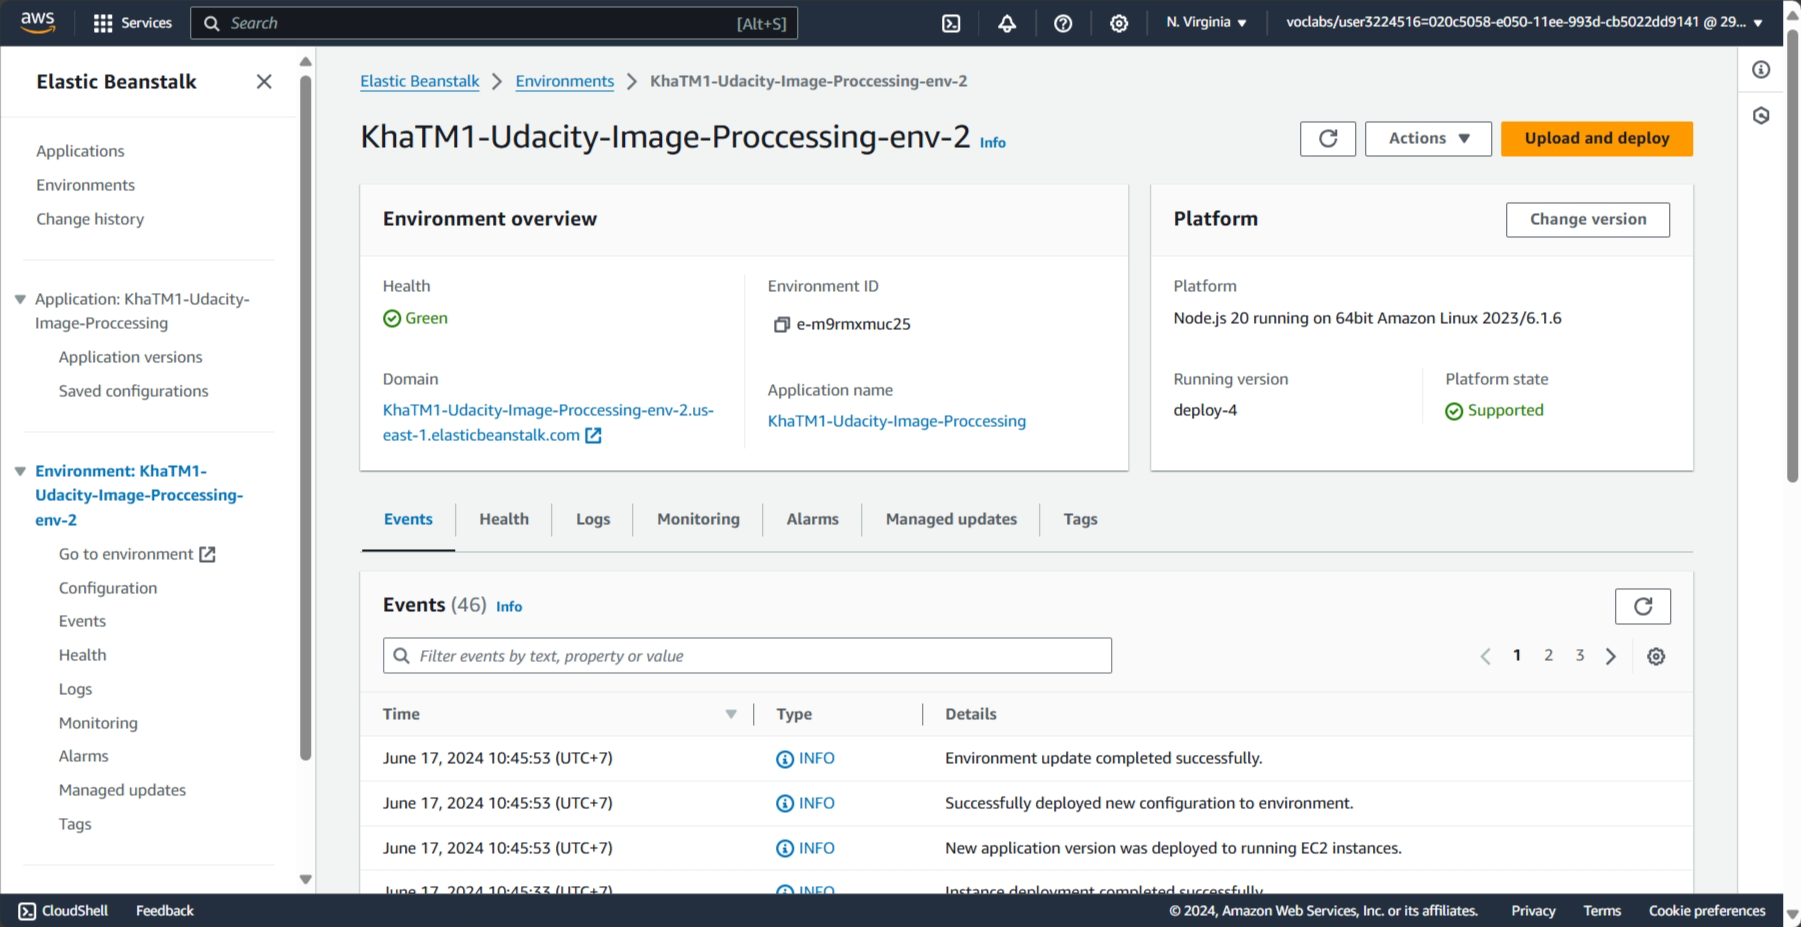
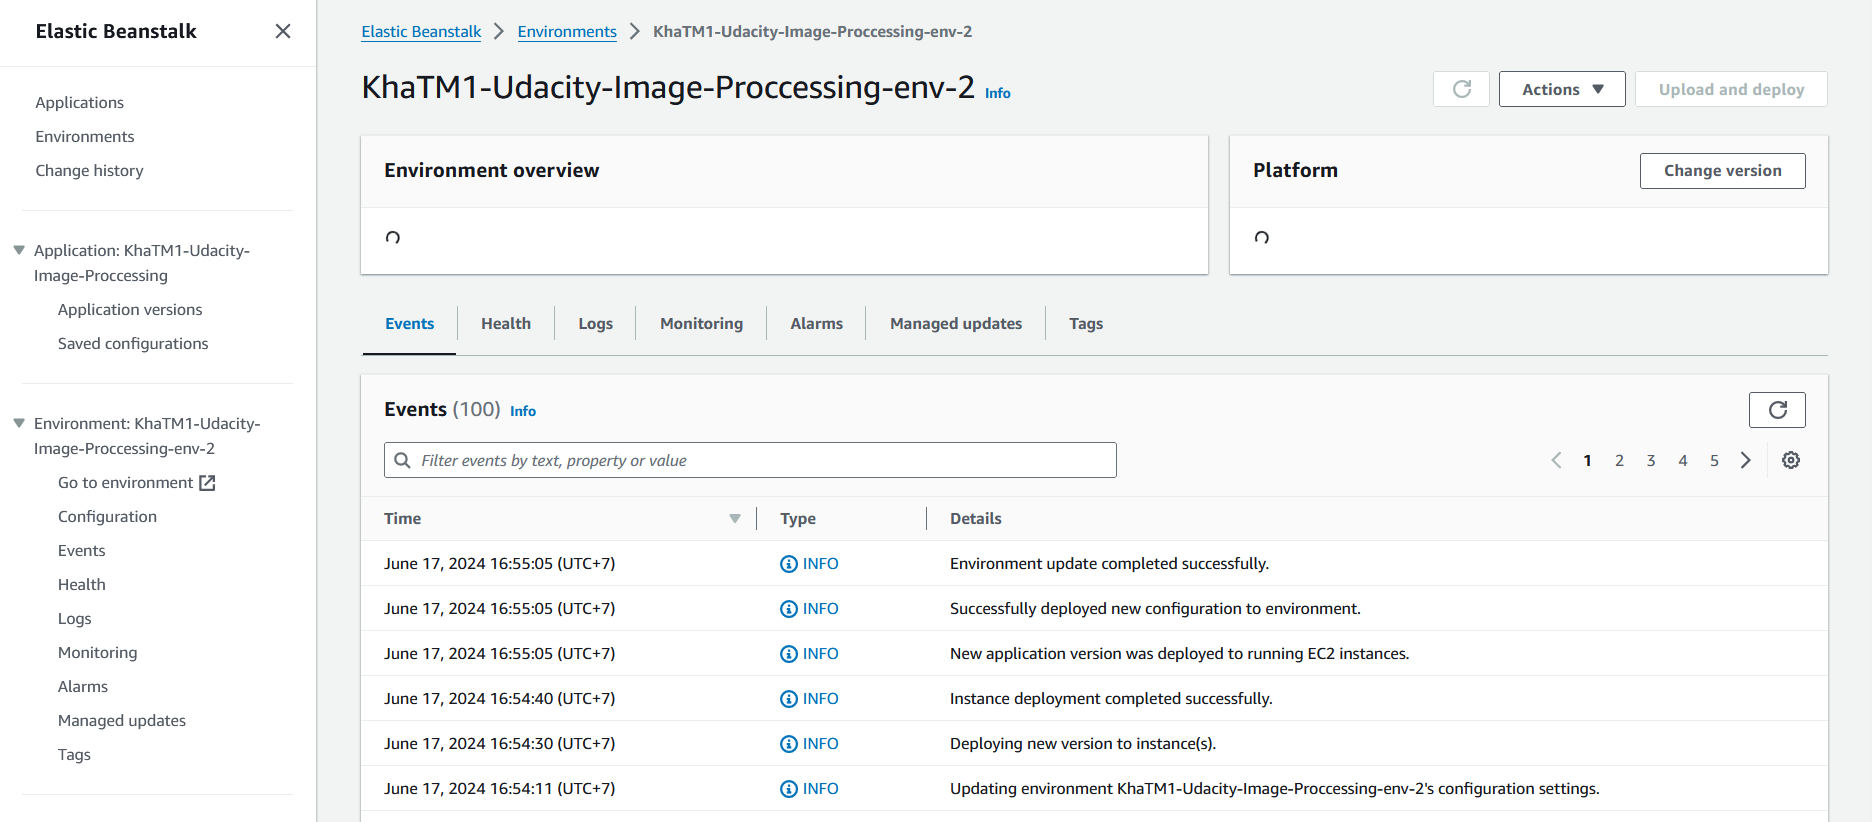
Update readme and screenshot

diff --git a/README.md b/README.md
@@ -2,8 +2,6 @@
 
 App url: http://khatm1-udacity-image-proccessing-env-2.us-east-1.elasticbeanstalk.com/filteredimage?image_url={url}
 
-Test url: http://khatm1-udacity-image-proccessing-env-2.us-east-1.elasticbeanstalk.com/filteredimage?image_url=https://github.com/tmkha89/udacity_image_processing/blob/master/deployment/test_image.jpg?raw=true
-
-Result: https://github.com/tmkha89/udacity_image_processing/blob/master/deployment/filtered_image.jpg?raw=true
+Test url: http://khatm1-udacity-image-proccessing-env-2.us-east-1.elasticbeanstalk.com/filteredimage?image_url=https://upload.wikimedia.org/wikipedia/commons/b/bd/Golden_tabby_and_white_kitten_n01.jpg
 
 Elastic Beanstalk screenshot: https://github.com/tmkha89/udacity_image_processing/blob/master/deployment/screenshot_eb_config.png
